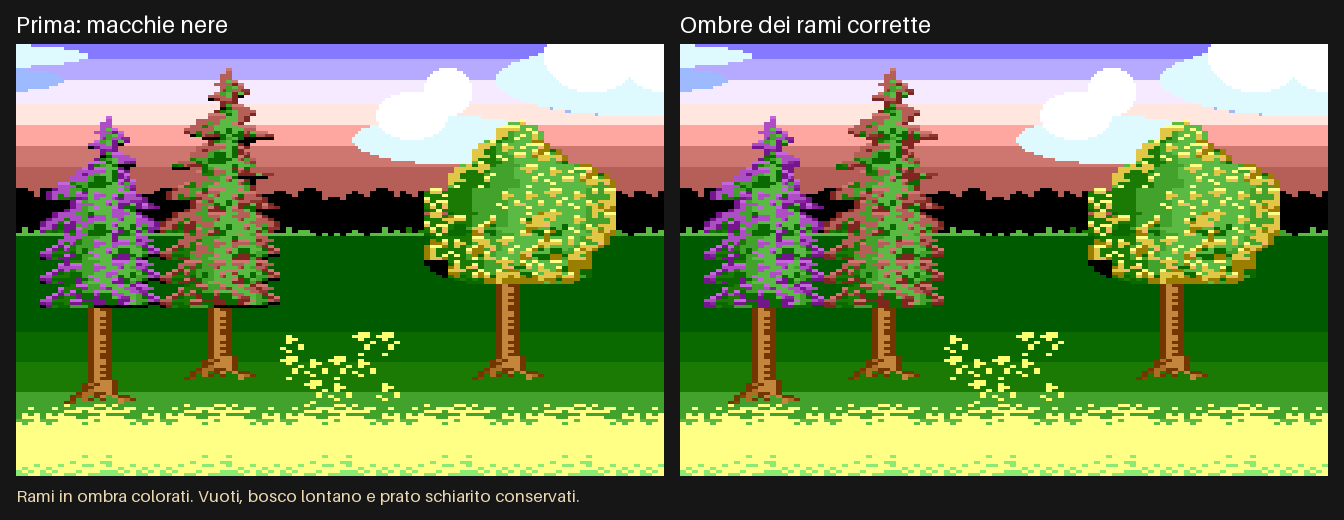
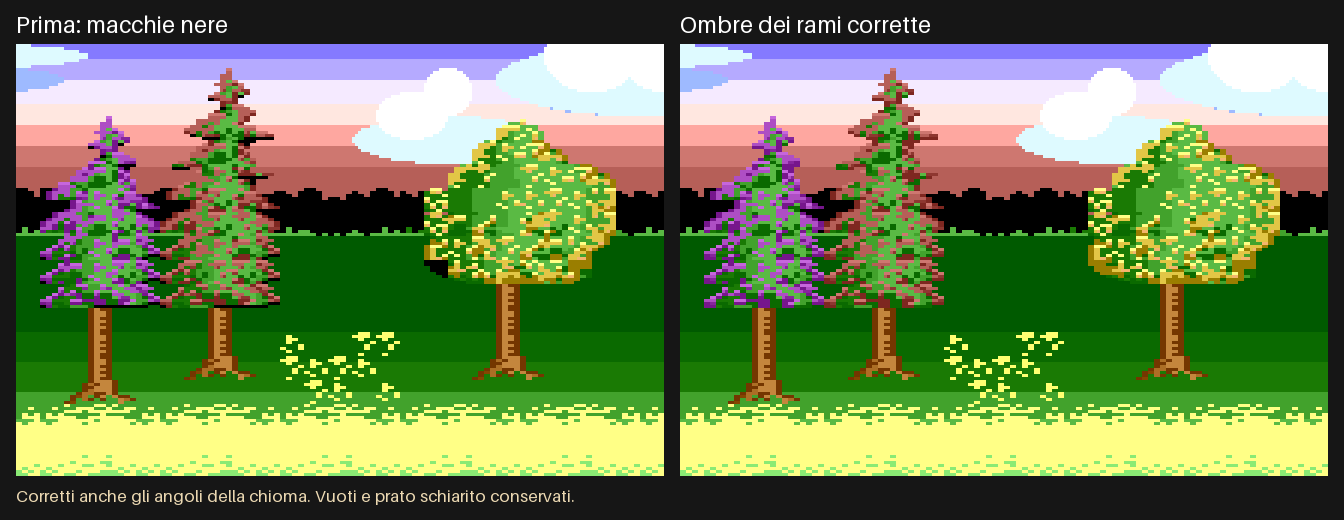
Include Usagi broadleaf corner in coloured tree shadows

Changed region(s): [[0.0, 0.9231, 0.4375, 0.9846], [0.8125, 0.4923, 0.8438, 0.5231]]

diff --git a/downloads/usagi-2026-11-24/anteprime-rami/README.md b/downloads/usagi-2026-11-24/anteprime-rami/README.md
@@ -1,11 +1,13 @@
-# Usagi Yojimbo — correzione delle ombre nere sui rami
+# Usagi Yojimbo — ombre dei rami e angoli della chioma
 
 24 novembre 2026.
 
-A sinistra la precedente anteprima; a destra le ombre corrette. L'esclusione del materiale degli alberi era troppo estesa: alcuni pixel originali pair2 sulle punte e sotto i rami erano stati scambiati per sfondo e riscritti in nero. La correzione assegna a quei 660 pixel i toni scuri verdi, viola o rossastri già previsti per l'albero.
+A sinistra la precedente anteprima; a destra le ombre corrette.
 
-La fascia del bosco lontano (righe native Y88–103), le aperture originali pair0, i fiori, la sagoma e il prato già schiarito di una luminanza sono conservati. Applicata agli otto pini del primo livello che condividono questi materiali.
+Due cause nei dati di colorazione: alcune punte e ombre dei pini erano state scambiate per sfondo nero (660 pixel su otto pini); il carattere grafico80 dell'angolo inferiore sinistro dei due alberi gialli mancava dalla selezione del materiale (34 pixel per albero). Ora usano i toni scuri verdi, viola, rossastri o gialli già previsti.
 
-È una modifica ai dati P64B del gioco: nessuna nuova funzione del decoder, nessuna nuova RAM. Pacchetto B01: 4016 byte; slot massimo 7376 byte; budget guest 64 KiB MAIN + 16 KiB AUX = 81920 byte. Rendering con l'interprete C effettivo, 724800 pixel verificati, zero differenze rispetto all'obiettivo e alla maschera prevista.
+Restano invariati i vuoti tra i rami, i fiori, la sagoma del bosco lontano e il prato schiarito di una luminanza, con palette TED15,25,35,45,55,65. Il carattere grafico originale non viene modificato.
 
-Le immagini sono anteprime: il pacchetto giocabile pubblicato non viene sostituito e non si tratta di una nuova prova completa su Windows.
+Modifica ai soli dati P64B del primo livello: nessuna funzione nuova del decoder né RAM aggiuntiva. B01:4018 byte; slot massimo7376 byte; guest64 KiB MAIN+16 KiB AUX=81920 byte. Rendering reale C/P64B:724800 pixel verificati, zero errori rispetto ai dati e alla maschera previsti. Ricostruzione completa dei sorgenti verificata: nel disco cambia solo B01; MAIN, altri16 sfondi e tutti gli sprite sono identici.
+
+Le immagini sono anteprime. Il pacchetto giocabile pubblicato non è sostituito; non è una nuova prova completa su Windows.
